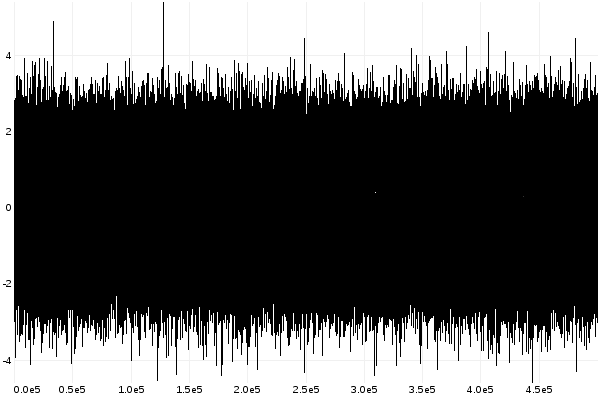
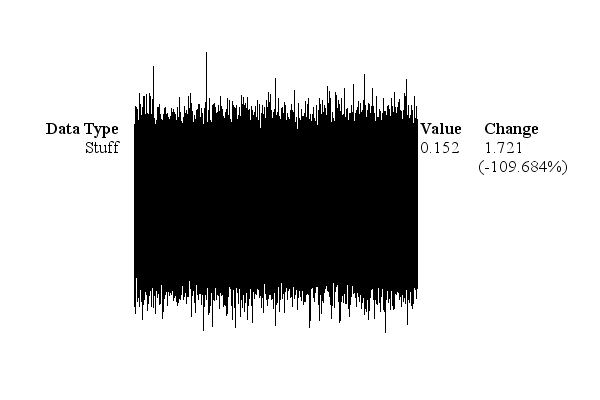
Fixed ProfileSparkline to take in Sparkline updates

diff --git a/graphene/src/test/java/org/epics/graphene/profile/ProfileSparklineGraph2D.java b/graphene/src/test/java/org/epics/graphene/profile/ProfileSparklineGraph2D.java
@@ -53,7 +53,7 @@ public class ProfileSparklineGraph2D {
         //OrderedDataset2D dataset = org.epics.graphene.Arrays.lineData(new ArrayDouble(waveform));
         
         SparklineGraph2DRenderer renderer = new SparklineGraph2DRenderer(imageWidth, imageHeight, "Stuff");
-        renderer.update(new LineGraph2DRendererUpdate().interpolation(InterpolationScheme.LINEAR));
+        renderer.update(new SparklineGraph2DRendererUpdate());
 
         Timestamp start = Timestamp.now();
         Timestamp end = start.plus(TimeDuration.ofSeconds(testTimeSec));
